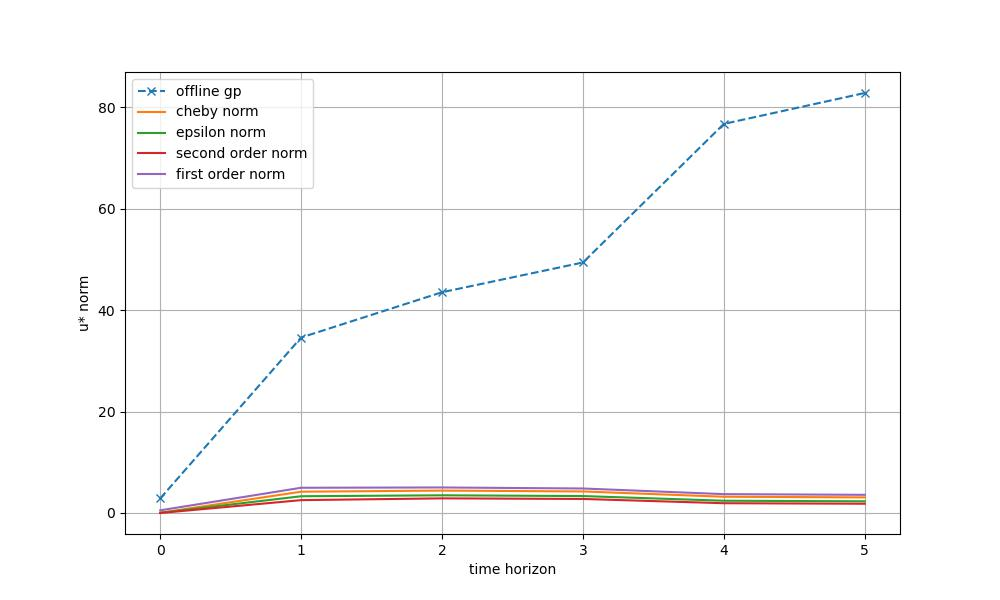
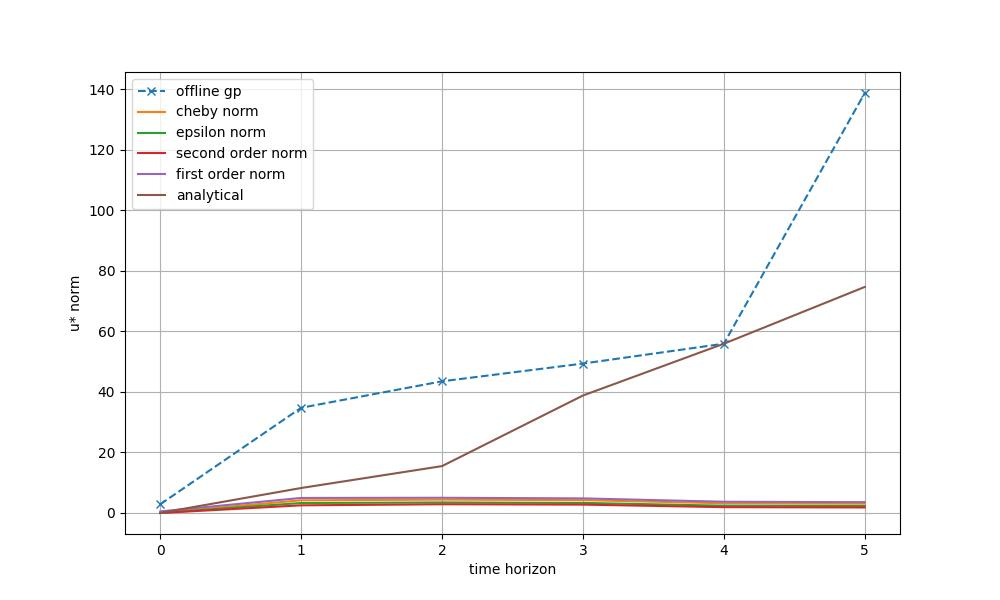
update

diff --git a/chi/chi3.py b/chi/chi3.py
@@ -347,15 +347,15 @@ for t in T_list:
 
 # plt.close()
 
-plt.figure(figsize = (10, 6))
-N = np.arange(1, len(alleps)+1)
-plt.plot(N, alleps, label = 'feasible epsilon vs Time horizon')
-plt.xlabel('time horizon')
-plt.ylabel('epsilon')
-plt.title('delta = {}'.format(delta))
-plt.legend()
-plt.savefig('eps-T.jpeg')
-plt.close()
+# plt.figure(figsize = (10, 6))
+# N = np.arange(1, len(alleps)+1)
+# plt.plot(N, alleps, label = 'feasible epsilon vs Time horizon')
+# plt.xlabel('time horizon')
+# plt.ylabel('epsilon')
+# plt.title('delta = {}'.format(delta))
+# plt.legend()
+# plt.savefig('eps-T.jpeg')
+# plt.close()
 
 plt.figure(figsize = (10, 6))
 N = np.arange(0, len(all_lam))
@@ -439,9 +439,9 @@ class gp_ucb:
     
 
     def sample(self, mean, cov, t, j, d):
-        # beta = 0.5
+        beta = 0.05
         # beta = 2 * np.log((j * t**2 * np.pi**2)/d*6)
-        beta = 2 *np.log(t+1)
+        # beta = 2 *np.log(t+1)
         var = np.diag(cov).reshape(-1, 1)
         score = -1*mean + (beta**0.5 * var)
         max_indices = np.where(score == score.max())[0]
@@ -455,7 +455,7 @@ class gp_ucb:
         x = x.reshape(-1,1)
         c = np.transpose(x) @ Q_tilde @ x
         w = np.random.normal()
-        y = c + w
+        y = c 
         return(y.flatten())
 
 
@@ -483,10 +483,9 @@ os.makedirs(delta_folder, exist_ok = True)
 dev = []
 norm = []
 ratios = []
-# reg = []
-j = 500
+j = 1000
 plt.figure(figsize = (10,6))
-
+analytical = []
 for T in T_list:
     A, B, CT = get_system(name, n, m, T,  seed=0)
 
@@ -543,14 +542,14 @@ for T in T_list:
         cr = cr + regret
         # print(regret)
         reg.append(cr)
-    index = indices[-1]    
+    index = indices[-1]  
+
     N = np.arange(0, len(reg))
-    
-        
     plt.plot(N, reg, label = '{}'.format(T))
     plt.xlabel('time')
-    plt.ylabel('regret')
+    plt.ylabel(' cumulative regret')
     plt.legend()
+    plt.grid(True)
     plt.savefig('reg.jpeg')
         
     N = np.arange(0, len(indices))
@@ -589,70 +588,56 @@ for T in T_list:
     dev.append(deviation)
     count1 = sum(d <= epsilon for d in x1)
     ratios.append(count1/sim)
-   
+    
+    analytical.append(min_value)
     norm.append(X[index, :].reshape(T, m)[::-1].reshape(-1).T @ Q_tilde @ X[index, :].reshape(T, m)[::-1].reshape(-1))
-    s = np.array(s)
-    filename2 = os.path.join(delta_folder, 'fstate-{}-{}-{}.jpeg'.format(delta, epsilon, T))
-    plt.figure(figsize = (10,6))
-    plt.scatter(s[:, 0], s[:, 1], marker = 'x')
-    plt.scatter(x_f[0], x_f[1], marker = 'x', color = 'red')
-   
-    plt.gca().set_aspect('equal', adjustable='box')
-    circle = patches.Circle((x_f[0], x_f[1]), epsilon, 
-                        fill=False, linestyle='--', color='k', label=f'ε-ball (ε={epsilon})')
-    plt.gca().add_patch(circle)
-    plt.xlabel('x1')
-    plt.ylabel('x2')
-    plt.title('horizon = {}, ratio = {}'.format(T, count1/sim))
-    plt.legend()
-    plt.savefig(filename2)
-    plt.close()
 
 
-N = np.arange(0, len(dev))
+
+# N = np.arange(0, len(dev))
 plt.figure(figsize = (10,6))
-plt.plot(N, dev,'x--', label = 'offline_gp')
+plt.plot(T_list, dev,'o-', label = 'offline_gp')
 # N = np.arange(0, len(x2_dev))
-plt.plot(N, x2_dev, label = 'chebyshev')
-plt.plot(N, x3_dev, label = 'epsilon sd')
-plt.plot(N, x1_dev, label = '2nd order state dev')
-plt.plot(N, x4_dev, label = 'first order')
+plt.plot(T_list, x2_dev, 'o-', label = 'chebyshev')
+plt.plot(T_list, x3_dev, 'o-', label = 'epsilon sd')
+plt.plot(T_list, x1_dev,'o-',  label = '2nd order state dev')
+plt.plot(T_list, x4_dev, 'o-', label = 'first order')
 plt.xlabel('time horizon')
 plt.ylabel('state dev')
 plt.title('avg state deviation')
 plt.legend()
+plt.grid(True)
+plt.xticks(T_list)
 plt.savefig('dev-T-{}-{}_ss{}.jpeg'.format(epsilon, delta, j))
 plt.close()
 
 plt.figure(figsize = (10,6))
-plt.plot(N, norm, 'x--', label = 'offline gp')
-plt.plot(N, chebu, label = 'cheby norm')
-plt.plot(N, epu, label = 'epsilon norm')
-plt.plot(N, secu, label = 'second order norm')
-plt.plot(N, firstu, label = 'first order norm')
-# plt.plot(N, staru, label = 'lambda u')
+plt.plot(T_list, norm, 'o-', label = 'offline gp')
+plt.plot(T_list, chebu, 'o-', label = 'cheby norm')
+plt.plot(T_list, epu, 'o-', label = 'epsilon norm')
+plt.plot(T_list, secu, 'o-', label = 'second order norm')
+plt.plot(T_list, firstu, 'o-', label = 'first order norm')
+plt.plot(T_list, analytical, 'o-', label = 'sample min')
 plt.xlabel('time horizon')
 plt.ylabel('u* norm')
 plt.legend()
 plt.grid(True)
+plt.xticks(T_list)
 plt.savefig('norm-T-{}-{}_ss{}.jpeg'.format(epsilon, delta, j))
 plt.close()
 
 
 N = np.arange(0, len(ratios))
 plt.figure(figsize = (10, 6))
-plt.plot(N, ratios)
+plt.plot(T_list, ratios)
 plt.xlabel('time horizon')
 plt.ylabel('ratio')
 plt.title('final state ratio inside epsilon ball')
 plt.legend()
 plt.grid(True)
+plt.xticks(T_list)
 plt.savefig('off_ratio.jpeg')
 plt.close()
 
-plt.figure(figsize = (10,6))
-diff = np.abs(np.array(norm) - np.array(chebu))
-plt.plot(N, diff, label = 'norm difference')
-plt.legend()
-plt.savefig('diff.jpeg')
-plt.close()
+
+
